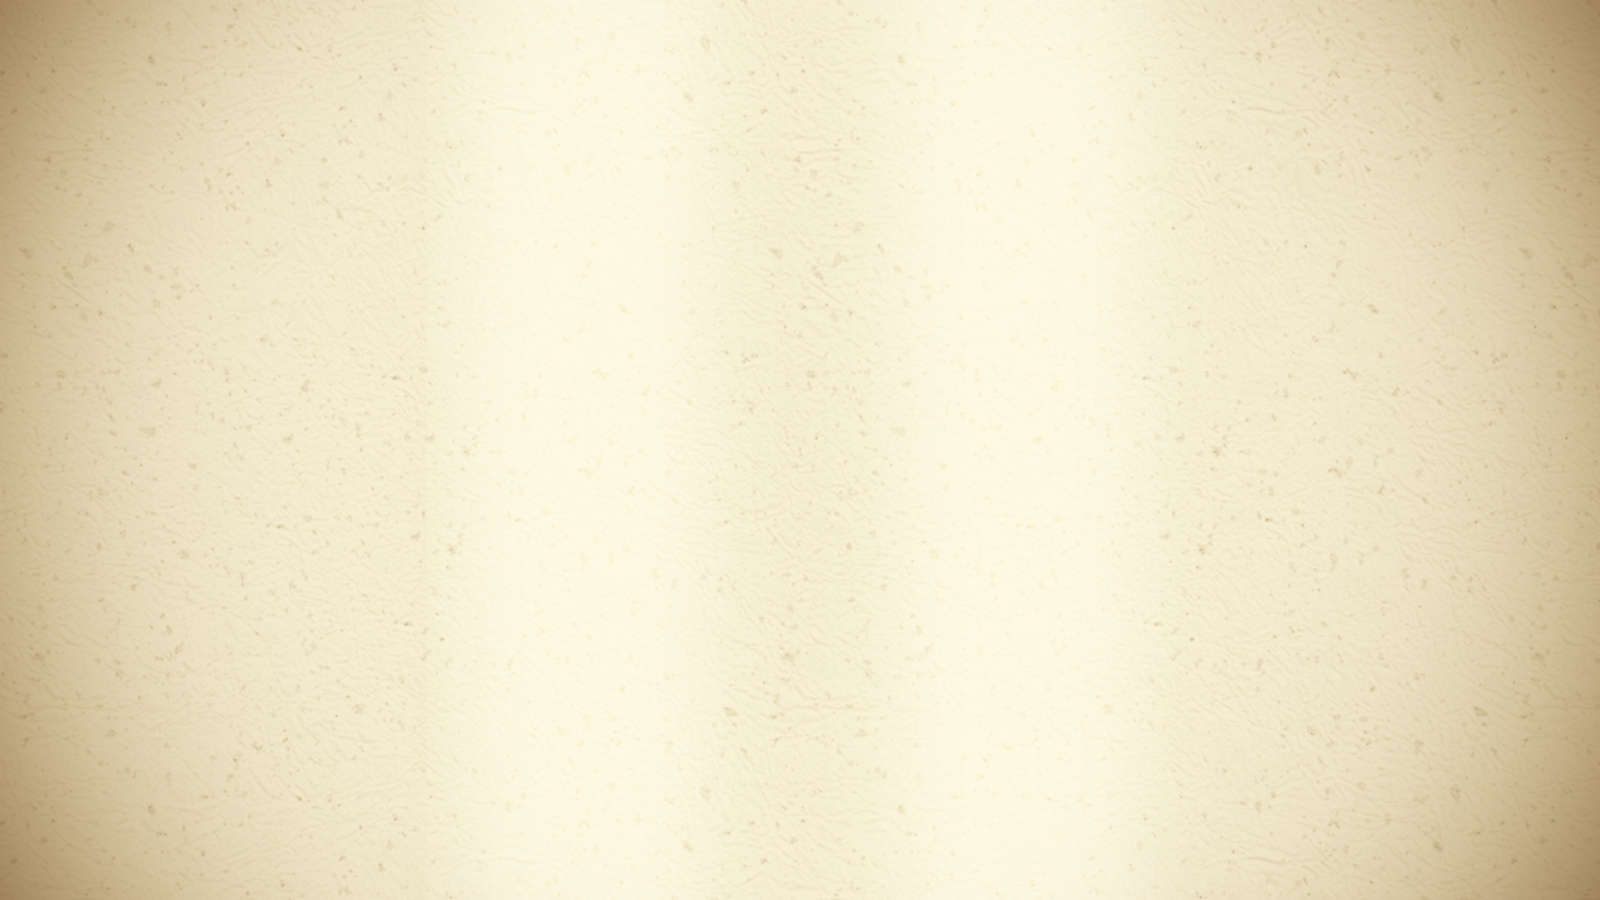
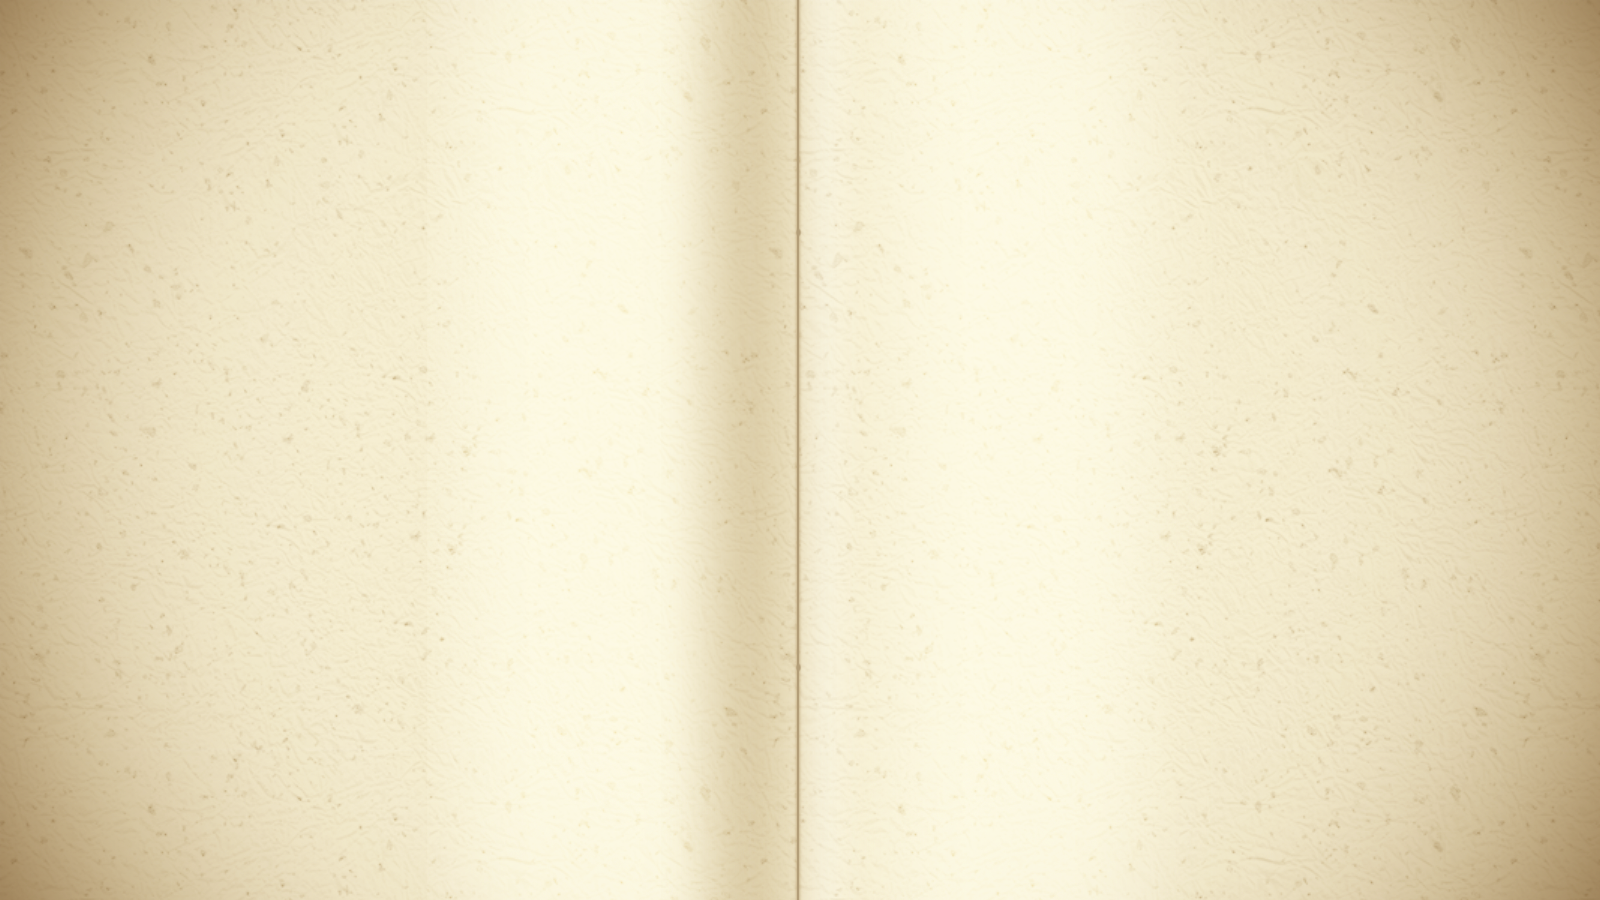
Смена фона

Changed region(s): [[0.4375, 0.0, 0.5, 1.0]]

diff --git a/InteractiveTable/Pages/BookViewer.xaml b/InteractiveTable/Pages/BookViewer.xaml
@@ -15,10 +15,8 @@
             <FlowDocument/>
         </FlowDocumentReader>
 
-        <Image Source="/InteractiveTable;component/Images/BookViewer/Separator.png" Width="300" Height="900" Canvas.Top="0" Canvas.Left="650"/>
-
         <Button x:Name="backButton" Template="{DynamicResource BackButtonTemplate}" Click="Back_Button_Click" Canvas.Left="60" Canvas.Top="795" FocusVisualStyle="{x:Null}"/>
-        
+
         <Button x:Name="contentButton" Template="{DynamicResource VerticalButtonTemplate}" Click="Content_Button_Click" Content="{DynamicResource b_Content}"
                 Background="#FF923F1F" Foreground="White" FontFamily="/InteractiveTable;component/Fonts/#Open Sans" FontSize="14" Width="40" Height="140"
                 HorizontalContentAlignment="Right" Padding="6,0" Canvas.Top="80" Canvas.Left="-6" FocusVisualStyle="{x:Null}"/>

diff --git a/InteractiveTable/Pages/BookViewerPdf.xaml b/InteractiveTable/Pages/BookViewerPdf.xaml
@@ -13,8 +13,6 @@
         
         <mpp:MoonPdfPanel x:Name="moonPdfPanel" Width="1600" Height="900" ViewType="Facing" PageMargin="0,2,0,2"/>
 
-        <Image Source="/InteractiveTable;component/Images/BookViewer/Separator.png" Width="300" Height="900" Canvas.Top="0" Canvas.Left="650"/>
-
         <Button x:Name="backButton" Template="{DynamicResource BackButtonTemplate}" Click="Back_Button_Click" Canvas.Left="60" Canvas.Top="795" FocusVisualStyle="{x:Null}"/>
         
         <Button x:Name="contentButton" Template="{DynamicResource VerticalButtonTemplate}" Click="Content_Button_Click" Content="{DynamicResource b_Content}"
